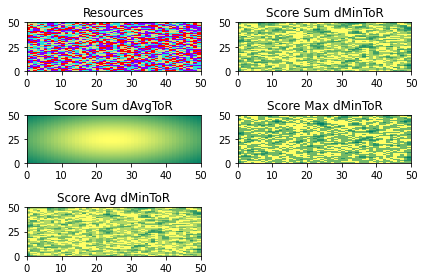
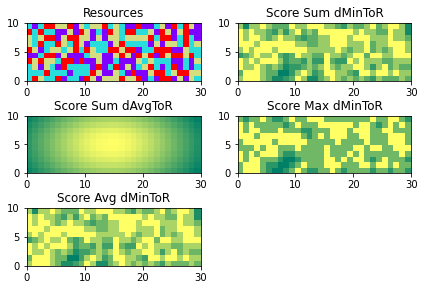
Changed ratio of plots

diff --git a/resourcesOptimizer.py b/resourcesOptimizer.py
@@ -8,9 +8,9 @@ R = [r for r in range(1, k + 1)] # Set of resources
 
 # W = [random.randint(1, 10) for r in range(1, k + 1)] # Weights for each resource
 
-n = 50 # Number of rows in the matrix of resources
+n = 10 # Number of rows in the matrix of resources
 
-m = 50 # Number of colums in the matrix of resources
+m = 30 # Number of colums in the matrix of resources
 
 M = [[random.randint(0, k) 
       for j in range(0, m)] 
@@ -57,25 +57,23 @@ S4 = [[1/(1 + np.average([d1(i, j, r, M) for r in R ]))
          for i in range(0, n)]
 
 # Visualize resources and scores
-plt.title('Heats maps of resources and scores')
-
-plt.subplot(3,2,1)
+plt.subplot(3,2,1, aspect='equal')
 plt.pcolormesh(M, cmap = 'rainbow')
 plt.title('Resources')
  
-plt.subplot(3,2,2)
+plt.subplot(3,2,2, aspect='equal')
 plt.pcolormesh(S1, cmap = 'summer')
 plt.title('Score Sum dMinToR')
  
-plt.subplot(3,2,3)
+plt.subplot(3,2,3, aspect='equal')
 plt.pcolormesh(S2, cmap = 'summer')
 plt.title('Score Sum dAvgToR')
 
-plt.subplot(3,2,4)
+plt.subplot(3,2,4, aspect='equal')
 plt.pcolormesh(S3, cmap = 'summer')
 plt.title('Score Max dMinToR')
 
-plt.subplot(3,2,5)
+plt.subplot(3,2,5, aspect='equal')
 plt.pcolormesh(S4, cmap = 'summer')
 plt.title('Score Avg dMinToR')
 
